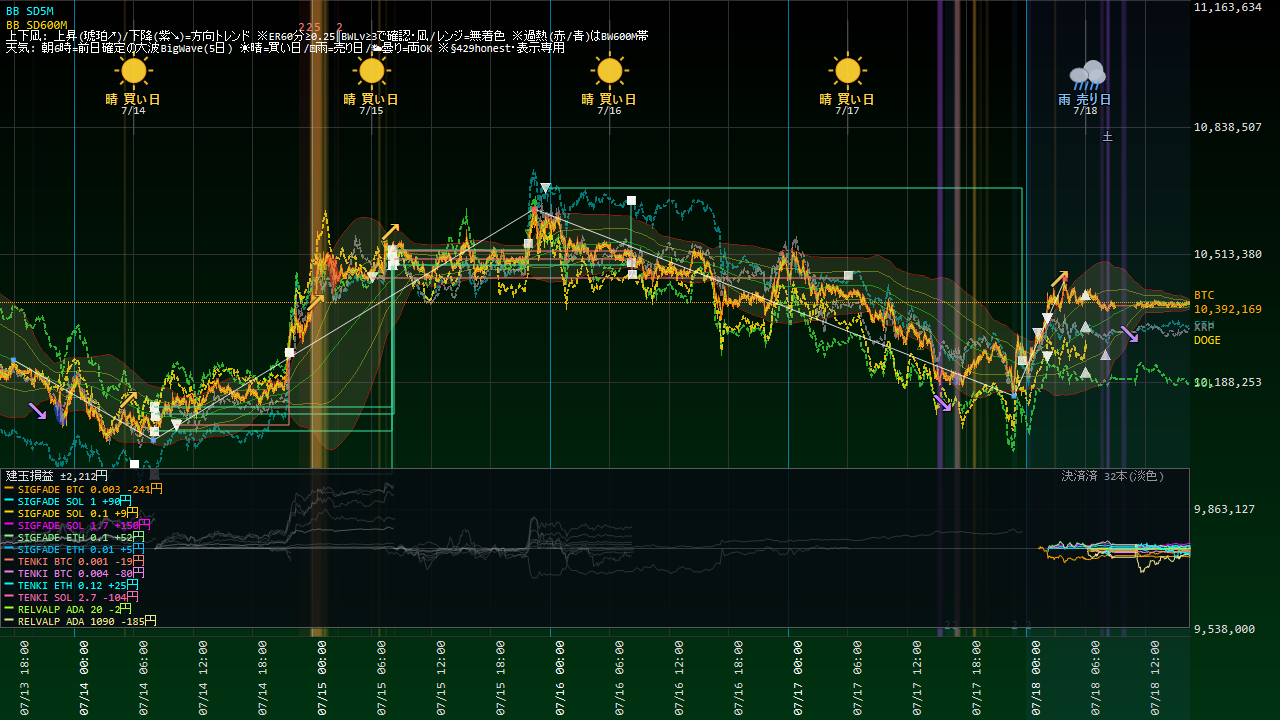
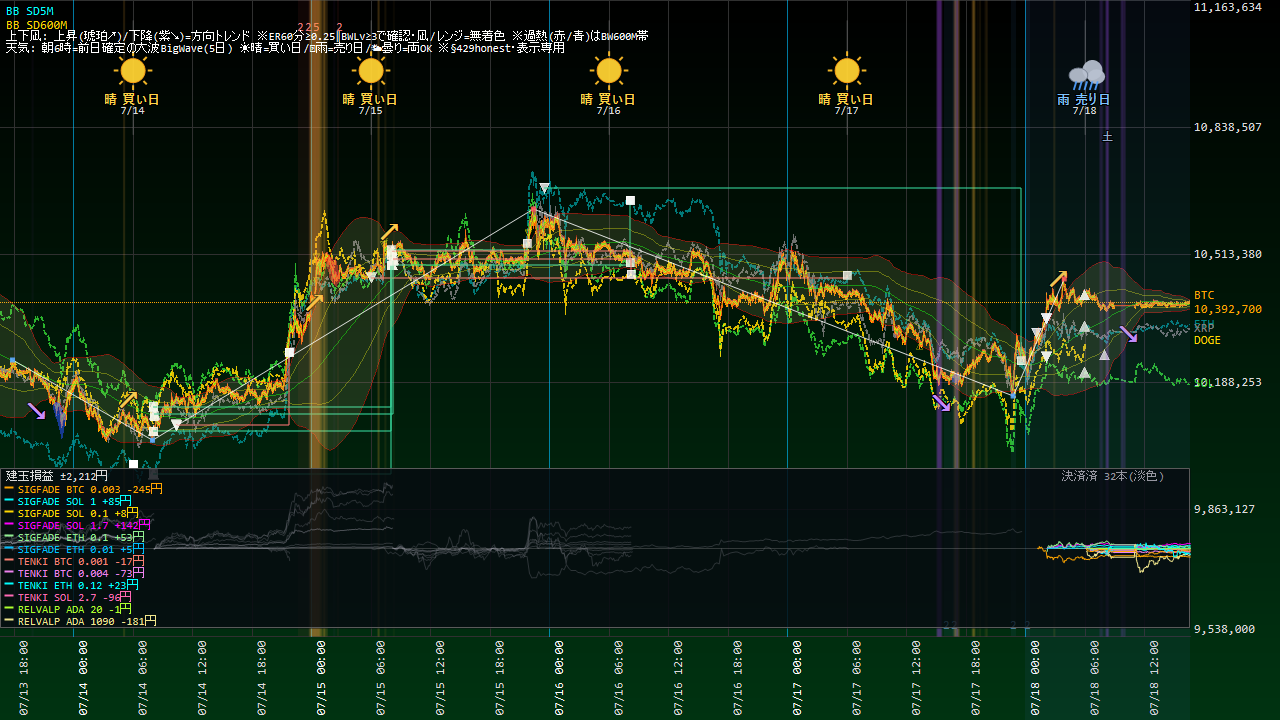
Coin100S 運用状況更新 07-18 16:41

diff --git a/coin100s-795hc4jfv8/index.html b/coin100s-795hc4jfv8/index.html
@@ -14,16 +14,16 @@ a{color:#60a5fa;text-decoration:none} a:hover{text-decoration:underline}
 .meta{color:#94a3b8;font-size:13px}</style>
 <script>setTimeout(function(){location.replace(location.pathname+"?t="+Date.now());},300000);</script></head><body>
 <h1>Coin100S ダッシュボード</h1>
-<p class="meta">スナップショット: 2026-07-18 16:34:46(自動リロード・最新化)</p>
+<p class="meta">スナップショット: 2026-07-18 16:41:17(自動リロード・最新化)</p>
 <div class="cards">
 <div class="card">建玉数<div class="v">14</div></div>
 <div class="card">本日損益<div class="v ">?</div></div>
-<div class="card">評価損益<div class="v neg">-494円</div></div>
+<div class="card">評価損益<div class="v neg">-497円</div></div>
 </div>
 <h2>現在の建玉</h2>
-<table><tr><th>銘柄</th><th>側</th><th>数量</th><th>建値</th><th>含損益</th><th>レッグ</th></tr><tr><td>ADA_JPY</td><td>SELL</td><td>370</td><td>@27</td><td>-58円</td><td>RELVALP_SL700</td></tr><tr><td>ADA_JPY</td><td>SELL</td><td>1090</td><td>@27</td><td>-171円</td><td>RELVALP_SELL</td></tr><tr><td>ADA_JPY</td><td>SELL</td><td>20</td><td>@27</td><td>-2円</td><td>RELVALP_SELL</td></tr><tr><td>BTC_JPY</td><td>BUY</td><td>0.004</td><td>@10,412,000</td><td>-74円</td><td>TENKI5D_REV_BTC</td></tr><tr><td>BTC_JPY</td><td>BUY</td><td>0.001</td><td>@10,411,000</td><td>-18円</td><td>TENKI5D_REV_BTC</td></tr><tr><td>BTC_JPY</td><td>SELL</td><td>0.003</td><td>@10,312,904</td><td>-242円</td><td>SIGFADE_BTC</td></tr><tr><td>DOGE_JPY</td><td>BUY</td><td>4570</td><td>@12</td><td>-151円</td><td>TENKI5D_REV_DOGE</td></tr><tr><td>ETH_JPY</td><td>BUY</td><td>0.12</td><td>@299,790</td><td>+16円</td><td>TENKI5D_REV_ETH</td></tr><tr><td>ETH_JPY</td><td>SELL</td><td>0.01</td><td>@300,517</td><td>+5円</td><td>SIGFADE_ETH</td></tr><tr><td>ETH_JPY</td><td>SELL</td><td>0.1</td><td>@300,518</td><td>+58円</td><td>SIGFADE_ETH</td></tr><tr><td>SOL_JPY</td><td>BUY</td><td>2.7</td><td>@12,198</td><td>-106円</td><td>TENKI5D_REV_SOL</td></tr><tr><td>SOL_JPY</td><td>SELL</td><td>1.7</td><td>@12,248</td><td>+151円</td><td>SIGFADE_SOL</td></tr><tr><td>SOL_JPY</td><td>SELL</td><td>0.1</td><td>@12,248</td><td>+8円</td><td>SIGFADE_SOL</td></tr><tr><td>SOL_JPY</td><td>SELL</td><td>1</td><td>@12,249</td><td>+90円</td><td>SIGFADE_SOL</td></tr></table>
+<table><tr><th>銘柄</th><th>側</th><th>数量</th><th>建値</th><th>含損益</th><th>レッグ</th></tr><tr><td>ADA_JPY</td><td>SELL</td><td>370</td><td>@27</td><td>-58円</td><td>RELVALP_SL700</td></tr><tr><td>ADA_JPY</td><td>SELL</td><td>1090</td><td>@27</td><td>-171円</td><td>RELVALP_SELL</td></tr><tr><td>ADA_JPY</td><td>SELL</td><td>20</td><td>@27</td><td>-2円</td><td>RELVALP_SELL</td></tr><tr><td>BTC_JPY</td><td>BUY</td><td>0.004</td><td>@10,412,000</td><td>-83円</td><td>TENKI5D_REV_BTC</td></tr><tr><td>BTC_JPY</td><td>BUY</td><td>0.001</td><td>@10,411,000</td><td>-20円</td><td>TENKI5D_REV_BTC</td></tr><tr><td>BTC_JPY</td><td>SELL</td><td>0.003</td><td>@10,312,904</td><td>-236円</td><td>SIGFADE_BTC</td></tr><tr><td>DOGE_JPY</td><td>BUY</td><td>4570</td><td>@12</td><td>-151円</td><td>TENKI5D_REV_DOGE</td></tr><tr><td>ETH_JPY</td><td>BUY</td><td>0.12</td><td>@299,790</td><td>+25円</td><td>TENKI5D_REV_ETH</td></tr><tr><td>ETH_JPY</td><td>SELL</td><td>0.01</td><td>@300,517</td><td>+5円</td><td>SIGFADE_ETH</td></tr><tr><td>ETH_JPY</td><td>SELL</td><td>0.1</td><td>@300,518</td><td>+51円</td><td>SIGFADE_ETH</td></tr><tr><td>SOL_JPY</td><td>BUY</td><td>2.7</td><td>@12,198</td><td>-106円</td><td>TENKI5D_REV_SOL</td></tr><tr><td>SOL_JPY</td><td>SELL</td><td>1.7</td><td>@12,248</td><td>+151円</td><td>SIGFADE_SOL</td></tr><tr><td>SOL_JPY</td><td>SELL</td><td>0.1</td><td>@12,248</td><td>+8円</td><td>SIGFADE_SOL</td></tr><tr><td>SOL_JPY</td><td>SELL</td><td>1</td><td>@12,249</td><td>+90円</td><td>SIGFADE_SOL</td></tr></table>
 <p><a href="status.html"><b>▶ 運用状況の詳細(チャート・本日の取引・レジーム)</b></a></p>
 <h2>日報一覧</h2>
 <table><tr><th>取引日</th><th>実現損益</th><th>総括</th></tr><tr><td><a href='reports/20260717_Coin100S日報.html'>2026-07-17</a></td><td class="pos">+0円</td><td class='meta'>実取引: 新規3件/決済2件、実現損益 +0円。シグナル却下1件（最多: BW10M3_5M／トレンド方向ゲート(N分傾き下と不一致=逆張り方向のfade禁止)）。⚠警告/エラー 2件（要確認）。</td></tr><tr><td><a href='reports/20260716_Coin100S日報.html'>2026-07-16</a></td><td class="pos">+0円</td><td class='meta'>実取引: 新規0件/決済5件、実現損益 +0円。⚠警告/エラー 7件（要確認）。</td></tr><tr><td><a href='reports/20260715_Coin100S日報.html'>2026-07-15</a></td><td class="pos">+0円</td><td class='meta'>実取引: 新規6件/決済5件、実現損益 +0円。シグナル却下6件（最多: BW10M3_5M／トレンド方向ゲート(N分傾き上と不一致=逆張り方向のfade禁止)）。⚠警告/エラー 7件（要確認）。</td></tr><tr><td><a href='reports/20260714_Coin100S日報.html'>2026-07-14</a></td><td class="pos">+0円</td><td class='meta'>実取引: 新規6件/決済18件、実現損益 +0円。シグナル却下5件（最多: BW10M3_5M／トレンド方向ゲート(N分傾き上と不一致=逆張り方向のfade禁止)）。⚠警告/エラー 9件（要確認）。</td></tr><tr><td><a href='reports/20260713_Coin100S日報.html'>2026-07-13</a></td><td class="pos">+0円</td><td class='meta'>実取引: 新規5件/決済8件、実現損益 +0円。シグナル却下1件（最多: BW10M3_5M／トレンド方向ゲート(N分傾き上と不一致=逆張り方向のfade禁止)）。警告/孤児/エラーなし＝健全。</td></tr><tr><td><a href='reports/20260712_Coin100S日報.html'>2026-07-12</a></td><td class="pos">+0円</td><td class='meta'>実取引: 新規14件/決済6件、実現損益 +0円。シグナル却下5件（最多: BW10M3_5M／トレンド方向ゲート(N分傾き下と不一致=逆張り方向のfade禁止)）。⚠警告/エラー 2件（要確認）。</td></tr><tr><td><a href='reports/20260711_Coin100S日報.html'>2026-07-11</a></td><td class="pos">+0円</td><td class='meta'>実取引: 新規7件/決済6件、実現損益 +0円。⚠警告/エラー 52件（要確認）。</td></tr><tr><td><a href='reports/20260710_Coin100S日報.html'>2026-07-10</a></td><td class="pos">+0円</td><td class='meta'>実取引: 新規7件/決済6件、実現損益 +0円。シグナル却下6件（最多: BW10M3_5M／トレンド方向ゲート(N分傾き上と不一致=逆張り方向のfade禁止)）。警告/孤児/エラーなし＝健全。</td></tr><tr><td><a href='reports/20260709_Coin100S日報.html'>2026-07-09</a></td><td class="pos">+0円</td><td class='meta'>実取引: 新規8件/決済3件、実現損益 +0円。シグナル却下5件（最多: SD120M_5M／トレンド方向ゲート(N分傾き上と不一致=逆張り方向のfade禁止)）。警告/孤児/エラーなし＝健全。</td></tr><tr><td><a href='reports/20260708_Coin100S日報.html'>2026-07-08</a></td><td class="pos">+0円</td><td class='meta'>実取引: 新規2件/決済4件、実現損益 +0円。シグナル却下4件（最多: SD120M_5M／トレンド方向ゲート(N分傾き下と不一致=逆張り方向のfade禁止)）。警告/孤児/エラーなし＝健全。</td></tr><tr><td><a href='reports/20260707_Coin100S日報.html'>2026-07-07</a></td><td class="pos">+0円</td><td class='meta'>実取引: 新規8件/決済6件、実現損益 +0円。シグナル却下4件（最多: SD120M_5M／トレンド方向ゲート(N分傾き上と不一致=逆張り方向のfade禁止)）。⚠警告/エラー 258件（要確認）。</td></tr><tr><td><a href='reports/20260706_Coin100S日報.html'>2026-07-06</a></td><td class="pos">+0円</td><td class='meta'>実取引: 新規9件/決済6件、実現損益 +0円。シグナル却下9件（最多: SD120M_5M／トレンド方向ゲート(N分傾き上と不一致=逆張り方向のfade禁止)）。⚠警告/エラー 150件（要確認）。</td></tr><tr><td><a href='reports/20260705_Coin100S日報.html'>2026-07-05</a></td><td class="pos">+0円</td><td class='meta'>実取引: 新規8件/決済3件、実現損益 +0円。⚠警告/エラー 2件（要確認）。</td></tr><tr><td><a href='reports/20260704_Coin100S日報.html'>2026-07-04</a></td><td class="pos">+0円</td><td class='meta'>実取引: 新規1件/決済2件、実現損益 +0円。⚠警告/エラー 2件（要確認）。</td></tr><tr><td><a href='reports/20260703_Coin100S日報.html'>2026-07-03</a></td><td class="pos">+0円</td><td class='meta'>実取引: 新規5件/決済4件、実現損益 +0円。⚠警告/エラー 15件（要確認）。</td></tr><tr><td><a href='reports/20260702_Coin100S日報.html'>2026-07-02</a></td><td class="pos">+0円</td><td class='meta'>実取引: 新規7件/決済5件、実現損益 +0円。シグナル却下17件（最多: SD120M_5M／トレンド方向ゲート(N分傾き上と不一致=逆張り方向のfade禁止)）。⚠警告/エラー 26件（要確認）。</td></tr><tr><td><a href='reports/20260701_Coin100S日報.html'>2026-07-01</a></td><td class="pos">+0円</td><td class='meta'>実取引: 新規14件/決済8件、実現損益 +0円。シグナル却下14件（最多: SD120M_5M／ボラ軸ゲート(SDN%&amp;gt;N%=高ボラ/荒れレンジ)）。⚠警告/エラー 2件（要確認）。</td></tr><tr><td><a href='reports/20260630_Coin100S日報.html'>2026-06-30</a></td><td class="pos">+0円</td><td class='meta'>実取引: 新規0件/決済1件、実現損益 +0円。シグナル却下29件（最多: 微5M／当日枠N）。警告/孤児/エラーなし＝健全。</td></tr></table>
-<hr><p class="meta">更新: 2026-07-18 16:35:07 / 自動生成: tools/web_publish.py(§580)</p>
+<hr><p class="meta">更新: 2026-07-18 16:41:26 / 自動生成: tools/web_publish.py(§580)</p>
 </body></html>

diff --git a/coin100s-795hc4jfv8/status.html b/coin100s-795hc4jfv8/status.html
@@ -14,22 +14,22 @@ a{color:#60a5fa;text-decoration:none} a:hover{text-decoration:underline}
 .meta{color:#94a3b8;font-size:13px}</style>
 <script>setTimeout(function(){location.replace(location.pathname+"?t="+Date.now());},300000);</script></head><body>
 <h1>Coin100S 運用状況</h1>
-<p class="meta">スナップショット: 2026-07-18 16:34:46 / ページ生成: 2026-07-18 16:35:07(自動リロード・最新化) / <a href="index.html">目次へ</a></p>
+<p class="meta">スナップショット: 2026-07-18 16:40:48 / ページ生成: 2026-07-18 16:41:26(自動リロード・最新化) / <a href="index.html">目次へ</a></p>
 <div class="cards">
 <div class="card">建玉数<div class="v">14</div></div>
 <div class="card">本日損益<div class="v ">?</div></div>
-<div class="card">評価損益<div class="v neg">-494円</div></div>
+<div class="card">評価損益<div class="v neg">-497円</div></div>
 </div>
 <h2>資産推移(直近30日)</h2>
-<img src="status_equity.png?t=1635" alt="equity">
+<img src="status_equity.png?t=1641" alt="equity">
 <h2>取引チャート(直近24h)</h2>
-<img src="status_chart.png?t=1635" alt="chart">
+<img src="status_chart.png?t=1641" alt="chart">
 <h2>建玉一覧</h2>
-<table><tr><th>銘柄</th><th>側</th><th>数量</th><th>建値</th><th>含損益</th><th>レッグ</th></tr><tr><td>ADA_JPY</td><td>SELL</td><td>370</td><td>@27</td><td>-58円</td><td>RELVALP_SL700</td></tr><tr><td>ADA_JPY</td><td>SELL</td><td>1090</td><td>@27</td><td>-171円</td><td>RELVALP_SELL</td></tr><tr><td>ADA_JPY</td><td>SELL</td><td>20</td><td>@27</td><td>-2円</td><td>RELVALP_SELL</td></tr><tr><td>BTC_JPY</td><td>BUY</td><td>0.004</td><td>@10,412,000</td><td>-74円</td><td>TENKI5D_REV_BTC</td></tr><tr><td>BTC_JPY</td><td>BUY</td><td>0.001</td><td>@10,411,000</td><td>-18円</td><td>TENKI5D_REV_BTC</td></tr><tr><td>BTC_JPY</td><td>SELL</td><td>0.003</td><td>@10,312,904</td><td>-242円</td><td>SIGFADE_BTC</td></tr><tr><td>DOGE_JPY</td><td>BUY</td><td>4570</td><td>@12</td><td>-151円</td><td>TENKI5D_REV_DOGE</td></tr><tr><td>ETH_JPY</td><td>BUY</td><td>0.12</td><td>@299,790</td><td>+16円</td><td>TENKI5D_REV_ETH</td></tr><tr><td>ETH_JPY</td><td>SELL</td><td>0.01</td><td>@300,517</td><td>+5円</td><td>SIGFADE_ETH</td></tr><tr><td>ETH_JPY</td><td>SELL</td><td>0.1</td><td>@300,518</td><td>+58円</td><td>SIGFADE_ETH</td></tr><tr><td>SOL_JPY</td><td>BUY</td><td>2.7</td><td>@12,198</td><td>-106円</td><td>TENKI5D_REV_SOL</td></tr><tr><td>SOL_JPY</td><td>SELL</td><td>1.7</td><td>@12,248</td><td>+151円</td><td>SIGFADE_SOL</td></tr><tr><td>SOL_JPY</td><td>SELL</td><td>0.1</td><td>@12,248</td><td>+8円</td><td>SIGFADE_SOL</td></tr><tr><td>SOL_JPY</td><td>SELL</td><td>1</td><td>@12,249</td><td>+90円</td><td>SIGFADE_SOL</td></tr></table>
+<table><tr><th>銘柄</th><th>側</th><th>数量</th><th>建値</th><th>含損益</th><th>レッグ</th></tr><tr><td>ADA_JPY</td><td>SELL</td><td>370</td><td>@27</td><td>-58円</td><td>RELVALP_SL700</td></tr><tr><td>ADA_JPY</td><td>SELL</td><td>1090</td><td>@27</td><td>-171円</td><td>RELVALP_SELL</td></tr><tr><td>ADA_JPY</td><td>SELL</td><td>20</td><td>@27</td><td>-2円</td><td>RELVALP_SELL</td></tr><tr><td>BTC_JPY</td><td>BUY</td><td>0.004</td><td>@10,412,000</td><td>-83円</td><td>TENKI5D_REV_BTC</td></tr><tr><td>BTC_JPY</td><td>BUY</td><td>0.001</td><td>@10,411,000</td><td>-20円</td><td>TENKI5D_REV_BTC</td></tr><tr><td>BTC_JPY</td><td>SELL</td><td>0.003</td><td>@10,312,904</td><td>-236円</td><td>SIGFADE_BTC</td></tr><tr><td>DOGE_JPY</td><td>BUY</td><td>4570</td><td>@12</td><td>-151円</td><td>TENKI5D_REV_DOGE</td></tr><tr><td>ETH_JPY</td><td>BUY</td><td>0.12</td><td>@299,790</td><td>+20円</td><td>TENKI5D_REV_ETH</td></tr><tr><td>ETH_JPY</td><td>SELL</td><td>0.01</td><td>@300,517</td><td>+5円</td><td>SIGFADE_ETH</td></tr><tr><td>ETH_JPY</td><td>SELL</td><td>0.1</td><td>@300,518</td><td>+56円</td><td>SIGFADE_ETH</td></tr><tr><td>SOL_JPY</td><td>BUY</td><td>2.7</td><td>@12,198</td><td>-106円</td><td>TENKI5D_REV_SOL</td></tr><tr><td>SOL_JPY</td><td>SELL</td><td>1.7</td><td>@12,248</td><td>+151円</td><td>SIGFADE_SOL</td></tr><tr><td>SOL_JPY</td><td>SELL</td><td>0.1</td><td>@12,248</td><td>+8円</td><td>SIGFADE_SOL</td></tr><tr><td>SOL_JPY</td><td>SELL</td><td>1</td><td>@12,249</td><td>+90円</td><td>SIGFADE_SOL</td></tr></table>
 <h2>実現決済履歴(直近15件・OrderId単位)</h2>
 <table><tr><th>決済時刻</th><th>レッグ</th><th>銘柄</th><th>実現損益</th></tr><tr><td>07-17 23:37</td><td>RELVALP_SL700</td><td>ETH</td><td class="pos">+497円</td></tr><tr><td>07-17 06:08</td><td>RELVALP_SELL</td><td>ETH</td><td class="neg">-22円</td></tr><tr><td>07-16 08:21</td><td>TENKI5D_REV_DOGE</td><td>DOGE</td><td class="neg">-125円</td></tr><tr><td>07-16 08:12</td><td>TENKI5D_REV_ETH</td><td>ETH</td><td class="pos">+740円</td></tr><tr><td>07-16 08:12</td><td>TENKI5D_REV_ETH</td><td>ETH</td><td class="pos">+555円</td></tr><tr><td>07-16 08:12</td><td>TENKI5D_REV_SOL</td><td>SOL</td><td class="neg">-193円</td></tr><tr><td>07-15 21:51</td><td>TENKI5D_REV_BTC</td><td>BTC</td><td class="pos">+94円</td></tr><tr><td>07-15 08:18</td><td>TENKI5D_REV_DOGE</td><td>DOGE</td><td class="pos">+858円</td></tr><tr><td>07-15 08:09</td><td>TENKI5D_REV_ETH</td><td>ETH</td><td class="pos">+601円</td></tr><tr><td>07-15 08:09</td><td>TENKI5D_REV_ETH</td><td>ETH</td><td class="pos">+2,402円</td></tr><tr><td>07-15 08:09</td><td>TENKI5D_REV_SOL</td><td>SOL</td><td class="pos">+1,812円</td></tr><tr><td>07-15 08:09</td><td>TENKI5D_REV_BTC</td><td>BTC</td><td class="pos">+1,850円</td></tr><tr><td>07-14 21:47</td><td>SIGFADE_ETH</td><td>ETH</td><td class="neg">-350円</td></tr><tr><td>07-14 21:47</td><td>SIGFADE_ETH</td><td>ETH</td><td class="neg">-141円</td></tr><tr><td>07-14 08:15</td><td>TENKI5D_REV_DOGE</td><td>DOGE</td><td class="pos">+267円</td></tr></table>
 <!-- §799c 「本取引日の実取引(6:00起点)」テーブルは公開ページから削除(ユーザー指示2026-07-15・数量/指値まで晒す情報漏れ)。建玉/実現損益は許可・実発注の生取引明細は非公開 -->
 <h2>現在レジーム(3軸・§570c)</h2>
-<ul><li>アルト対BTC 5日: <b>-85bps</b>(アルト劣後=RELVAL順風)</li><li>BTC ER240m: <b>0.033</b>(閾値0.25→レンジ(fade順風/BWTRD逆風))</li><li>BTC実現ボラ240m: <b>1.42</b> bps/分</li></ul>
+<ul><li>アルト対BTC 5日: <b>-85bps</b>(アルト劣後=RELVAL順風)</li><li>BTC ER240m: <b>0.021</b>(閾値0.25→レンジ(fade順風/BWTRD逆風))</li><li>BTC実現ボラ240m: <b>1.41</b> bps/分</li></ul>
 <hr><p class="meta">自動生成: tools/web_publish.py(§580・読み取り専用)。売買判断はアプリ本体。</p>
 </body></html>
